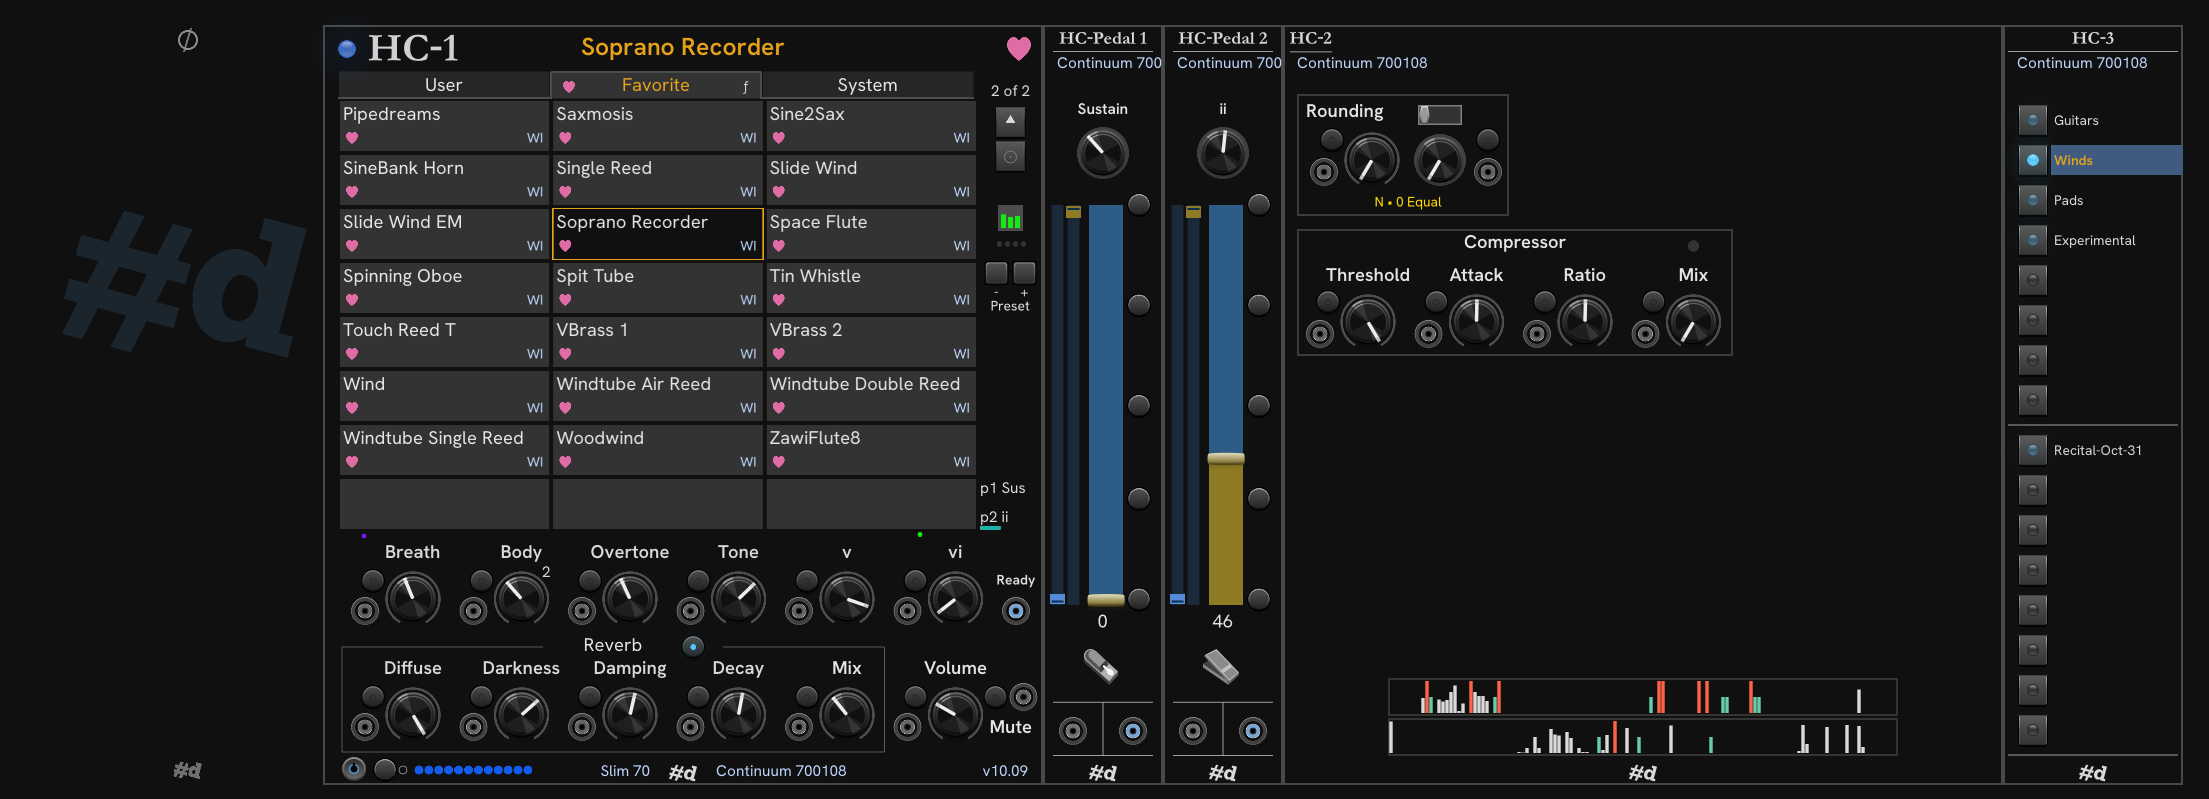
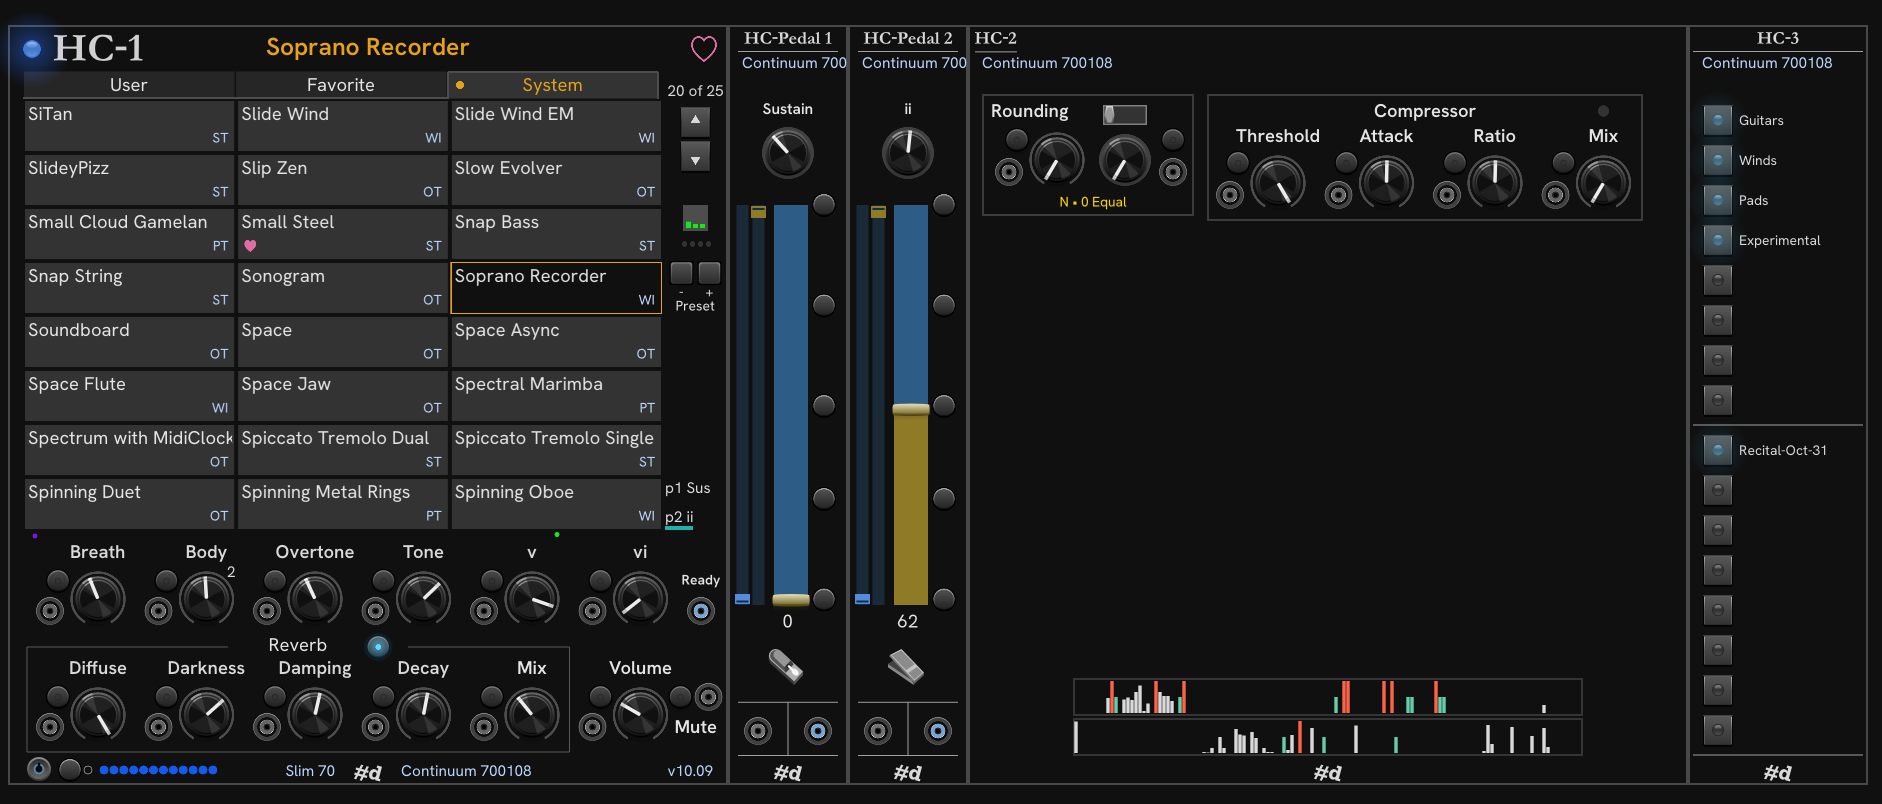
Catch up docs with layout and menu changes

Changed region(s): [[0.0, 0.03, 1.0, 0.9912]]

diff --git a/src/HC-2/HC-2-layout.hpp b/src/HC-2/HC-2-layout.hpp
@@ -20,11 +20,11 @@ constexpr const float ROUND_COL1 = ROUND_BOX_HALF - KNOB_RADIUS - 3.f * PAD;
 constexpr const float ROUND_COL2 = ROUND_BOX_HALF + KNOB_RADIUS + 2.f * PAD;
 constexpr const float ROUND_COL3 = ROUND_BOX_WIDTH - KNOB_RADIUS + PAD;
 constexpr const float KNOB_SPREAD = 54.25f;
-constexpr const float COMP_BOX_LEFT = 7.5;
-constexpr const float COMP_BOX_TOP = ROUND_BOX_TOP + ROUND_BOX_HEIGHT + 7.5f;
+constexpr const float COMP_BOX_LEFT = ROUND_BOX_LEFT + ROUND_BOX_WIDTH + 7.5;
+constexpr const float COMP_BOX_TOP = ROUND_BOX_TOP;
 constexpr const float COMP_BOX_HEIGHT = 62.5f;
 constexpr const float COMP_BOX_WIDTH = KNOB_SPREAD * 4.f;
 constexpr const float COMP_COL1 = 35.f;
-constexpr const float COMP_KNOB_ROW = 46.f;
+constexpr const float COMP_KNOB_ROW = 44.f;
 
 }

diff --git a/doc/HC-1.md b/doc/HC-1.md
@@ -117,18 +117,18 @@ From right to left, top to bottom:
 - Below the Rounding Status LEDs, are preset navigation buttons similar to the buttons on the Continuum.
   Clicking the - or + button selects previous or next preset in the list.
   Shift+Click moves by 10 presets.
-  Ctrl+Click (Cmd on Mac) moves in device order, independent of the sorting of the current tab.
+  Ctrl+Click (Cmd on Mac) and Shift+Ctrl+Click moves in device order, independent of the sorting of the current tab.
   This is the same ordering that the buttons on the device use.
 
-- At the bottom of the preset tabs, you can see two tiny lights that move from left to right as MDIDI communications travel between the module and the Egagan Matrix.
+- At the bottom of the preset tabs, you can see two tiny lights that move from left to right as MIDI communications travel between the module and the Eagan Matrix.
   The purple light shows progress of MIDI messages **sent**, and the green light shows the progress of MIDI Messages **received**.
-  These allow you to see when the module loses MIDI communication with the device, which unfortunately can happen through no fault of HC-1.
+  These allow you to see when the module loses MIDI communication with the device, which unfortunately can happen.
 
 - The preset's Pedal assignments are shown to the bottom right of the preset list.
   If a pedal is assigned to a macro or recirculator, you will see a **`1`** or **`2`**
 next to the knob, indicating which pedal is assigned to that knob.
 
-- Below the preset listing are the macro and recirculator controls.
+- Below the preset listings are the macro and recirculator controls.
   When a preset is selected, the preset metadata is parsed, and if it contains Macro labels, these are read and shown.
   If no label is defined for a macro, you see the default Roman numerals.
   Some presets use a macro controller, but do not provide a label.
@@ -137,7 +137,7 @@ next to the knob, indicating which pedal is assigned to that knob.
 - Each Macro, Recirculator, and Volume control can operate independently (with no cable connected to the input jack), with absolute CV control, or combined Knob + CV Relative control.
   Click the **Relative mode** button to toggle between Absolute and Relative mode.
   When a cable is connected, the value of the parameter is either the input value (Absolute mode), or the sum of the Knob position and the CV value (Relative mode).
-  Absolute mode takes Unipolar 0-10v signals and Relative mode takes Bipolar signals.
+  Absolute mode takes Unipolar 0-10v signals and Relative mode takes Bipolar or Unipolar signals.
   The Relative mode indicator light is lit when the control is in relative mode,
 and the track around the knob becomes gold, with an indicator dot showing the effective value.
 
@@ -145,7 +145,9 @@ and the track around the knob becomes gold, with an indicator dot showing the ef
 
   There are menu options under **Knob control** to set all controls to Absolute or Relative mode, and to set all knobs to zero or middle position at once.
 
-- The **Ready** output produces a trigger when the EM device is fully initialized and ready to work with.
+- The **Ready** output jack produces a trigger when the EM device is fully initialized and ready to work with.
+  This is the only CV output produced by HC-1.
+  CV inputs are processed only after the device has reached "Ready".
 
 - The boxed controls are the Eagan Matrix Recirculator.
   The labels change to reflect the current preset's Recirculator type and the appropriate R1-R4 and Recirculator Mix (R5).
@@ -169,20 +171,10 @@ and the track around the knob becomes gold, with an indicator dot showing the ef
     When everything is conencted and working properly, you should see a row of blue indicators.
     When an indicator is orange, it means the corresponding item is in-progress.
 
+    Hover over an indicator to see what item it reflects and its current status.
+
     If the module gets stuck, an indicator may remain orange and you may see the MIDI communication lights stop moving.
     If you see this happen you may need to reset MIDI I/O, reboot the module from the menu, or unplug the Midi or USB or even power cycle your EM device.
-
-    These indicators are:
-
-    1. MIDI output device connection
-    1. MIDI input device connection
-    1. Connected device is a recognized Eagan Matrix, based on the device name
-    1. System presets initialized
-    1. User presets initialized
-    1. Current preset initialized
-    1. Saved preset from previous session is set
-    1. HC-1 has requested the device for updates when presets change
-    1. Device heartbeat status (heartbeat can be disabled int he menu).
 
   - In the middle is the pachde (#d) logo
   - The name of the currently connected EM device, if any
@@ -192,7 +184,14 @@ and the track around the knob becomes gold, with an indicator dot showing the ef
 
 | Menu | Option | Description |
 | -- | -- | -- |
+| **Presets** | **Restore last preset at startup** | Enable to select the last preset selected in HC-1 at startup. Disable to use whatever preset is current on the device. |
+|  | **Use saved system presets** | Turn on to use a cached list of system presets instead of (slowly) re-querying the device at startup. |
+|  | **Use saved user presets** | Turn on to use a cached list of system presets instead of (slowly) re-querying the device at startup. |
+|  | **Refresh current preset** | Request the current preset (edit slot) configuration from the device. |
+|  | **Refresh User presets** | Refresh the list of User presets from the device. Do this after adding or removing new user presets using the Haken Editor, and you have **Use saved presets** turned on. |
+|  | **Refresh System presets** | Refresh the list of System presets from the device. |
 | **Knob control** | **Center knobs** | Set all knobs to center position. |
+|  | **Center Macro knobs** | Center only Macro knobs to center position. |
 |  | **Zero knobs** | Set all knobs (except Volume) to zero position. |
 |  | **Absolute CV** | Set all controls to Absolute CV mode |
 |  | **Relative CV** | Set all controls to Relative CV mode |
@@ -203,14 +202,8 @@ and the track around the knob becomes gold, with an indicator dot showing the ef
 |  | **Delay LPF** | Use delay LPF (low-pass filter) |
 |  | **Delay HPF** | Use Delay HPF (high-pass filter) |
 | **Module** | **Reboot HC-1** | Re-initialize HC1. May be needed if MIDI communication isn't working. This always re-scans all User and System presets from the device. |
-|  | **Suppress heartbeat handshake** | Do not periodically poll the device. You may want to do this because the heartbeat can sometimes cause glitches in the audio output. Without the heartbeat, the DSP usage indicator doesn't work. |
-|  | **One handshake** | Send one heartbeat handshake. When heartbeat is suppressed, use this to take a snapshot of the DSP usage. |
-|  | **Request config** | Request the current preset (edit slot) configuration from the device. |
-|  | **Reset MIDI I/O** | Re-initialize MIDI I/O. |
-| **Presets** | **Restore last preset at startup** | Enable to select the last preset used in HC1 at startup. Disable to use whatever preset is current on the device. |
-|  | **Use saved presets** | Turn on to use a cached list of user and system presets instead of (slowly) re-querying the device at startup. |
-|  | **Save presets** | Force-save the preset lists. |
-|  | **Refresh User presets** | Refresh the list of User presets from the device. Do this after adding or removing new user presets using the Haken Editor, and you have **Use saved presets** turned on. |
+|  | **Send one handshake (ping)** | Send one heartbeat handshake to ping the device. Use this to take a snapshot of the DSP usage. |
+|  | **Remake QSPI data** | Re-initialize QSPI (additive) data. Same functions as in the Haken Editor. |
 
 ## Favorite tab menu
 
@@ -223,10 +216,10 @@ Right click on the **Favorite** tab to see the **Favorite menu**.
 | **Open...** | | Load favorites from a file (`.fav` or `.json`) |
 | **Add from...** | | Append to the current list from a favorites file. |
 | **Import Haken Editor group list** | | Create Favorites from a Haken editor group listing. Presets named in the group file are first matched by name from user presets, then from system presets. The first matching name is used. If a name is not found, it is silently omitted. |
-| **Forget and clear** | | Forget the current favorites file (if any) and empty the list. |
+| **Forget file and clear** | | Forget the current favorites file (if any) and empty the list. |
 | File _name_ | | Shows current favorites file name or `(none)` if no favorites file is open. |
 | **Save as...** | | Save current favorites to a `.fav` or `.json` file, and switch to that file. |
-| **Save copy as...** | | Save current favorites to a new `.fav` or `.json` file, but remain in the current favorites file. |
+| **Save copy as...** | | Save current favorites to a new `.fav` or `.json` file, but remain in the current favorites file. Use this to save a snapshot of the currrent favorites file. |
 | **Clear** | | Empty the current Favorites file.  |
 
 ## System tab menu
